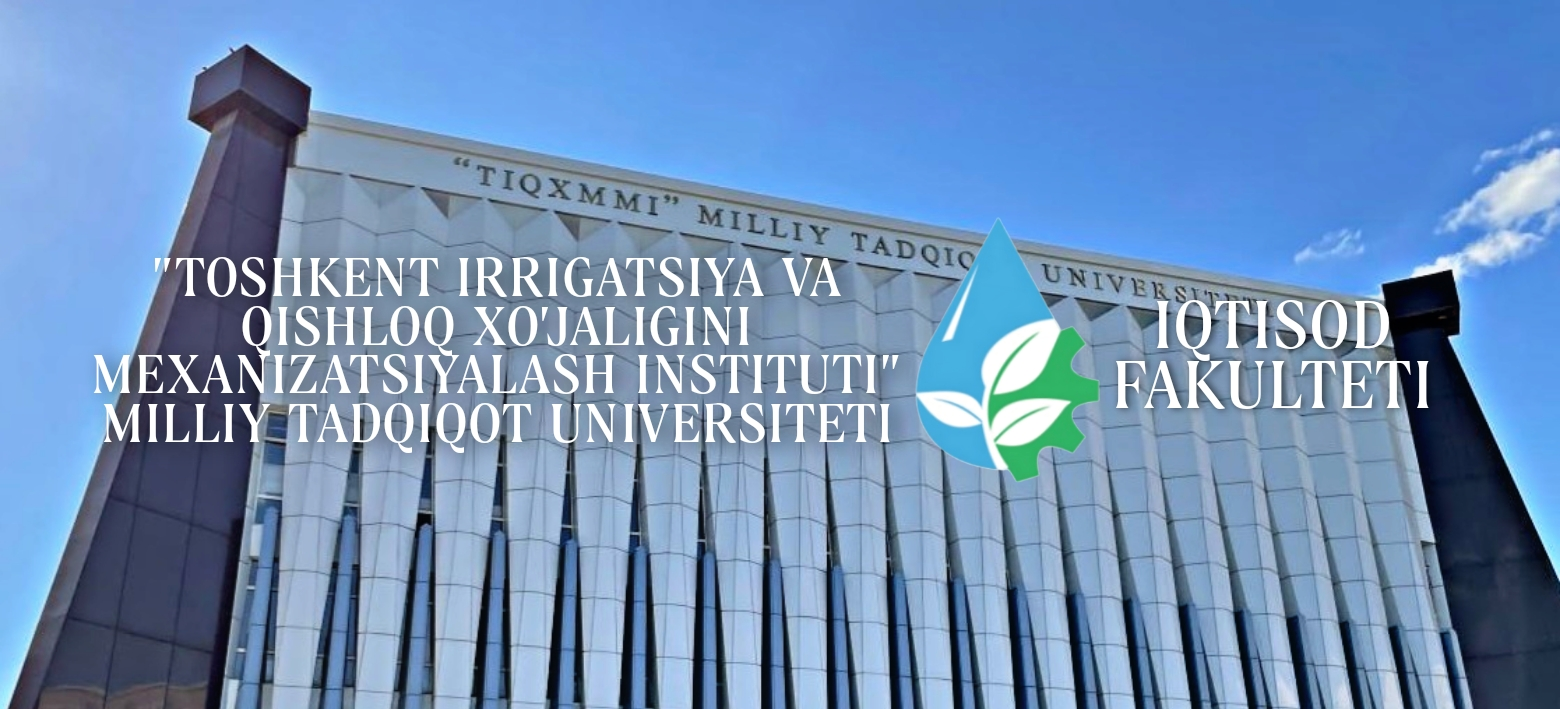
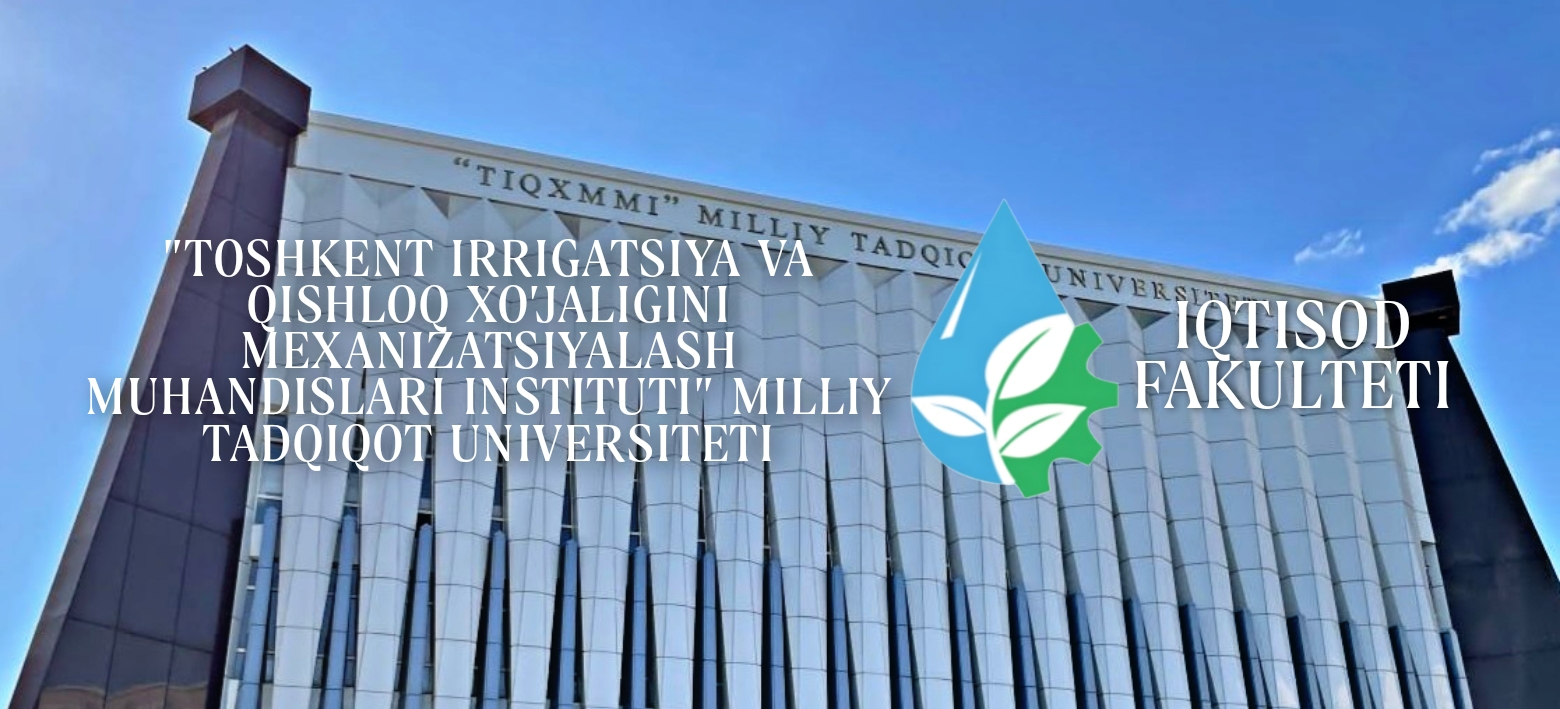
Production

Changed region(s): [[0.0308, 0.2793, 0.9538, 0.7137]]

diff --git a/templates/feedbackbot/home.html b/templates/feedbackbot/home.html
@@ -101,7 +101,7 @@
             </div>
 
             <div class="facilities-col">
-                <h3>So'ngi faoliyati</h3>
+                <h3>Hozirgi faoliyati</h3>
                 <p>O‘zbekiston Respublikasi Prezidentining 10.12.2021yil PQ-42-son "Iqtisodiyot tarmoqlari uchun
                     muhandis kadrlarni tayyorlash tizimini innovatsiya va raqamlashtirish asosida tubdan
                     takomillashtirish chora-tadbirlari to‘g‘risida"gi Qarori asosida “Toshkent irrigatsiya va qishloq

diff --git a/feedbackbot/models.py b/feedbackbot/models.py
@@ -148,18 +148,18 @@ class ClassSchedule(AbstractBaseModel):
     end_time = models.CharField(max_length=15, blank=True, null=True)
     room = models.IntegerField()
 
-    def clean(self):
-        if self.start_time is None:
-            raise ValidationError("Dars boshlanish vaqti kiritilishi shart")
-
-        if self.end_time is None:
-            raise ValidationError("Dars tugash vaqti kiritilishi shart")
-
-        if self.start_time >= self.end_time:
-            raise ValidationError("Dars tugash vaqti dars boshlanish vaqtidan katta bo'lishi shart")
-
-        if self.day not in dict(self.DAYS_OF_WEEK).keys():
-            raise ValidationError("Notog'ri dars kuni kiritildi")
+    # def clean(self):
+    #     if self.start_time is None:
+    #         raise ValidationError("Dars boshlanish vaqti kiritilishi shart")
+    #
+    #     if self.end_time is None:
+    #         raise ValidationError("Dars tugash vaqti kiritilishi shart")
+    #
+    #     if self.start_time >= self.end_time:
+    #         raise ValidationError("Dars tugash vaqti dars boshlanish vaqtidan katta bo'lishi shart")
+    #
+    #     if self.day not in dict(self.DAYS_OF_WEEK).keys():
+    #         raise ValidationError("Notog'ri dars kuni kiritildi")
 
     def save(self, *args, **kwargs):
         start_time_obj = datetime.strptime(self.start_time, '%H:%M:%S')

diff --git a/Bot/main.py b/Bot/main.py
@@ -112,7 +112,8 @@ async def handle_info_button(message: types.Message):
         result = cur.fetchone()
         if result is not None:
             await bot.send_message(message.chat.id,
-                                   f"Ism Familiya: ```{result[0]} {result[1]}```\n"
+                                   f"Ism: ```{result[0]}```\n"
+                                   f"Familiya: ```{result[1]}```"
                                    f"Guruh raqami: ```{result[2]}```\n"
                                    f"Kurs: ```{result[3]}```\n"
                                    f"Telegram id: ```{result[4]}```", parse_mode='Markdown')
